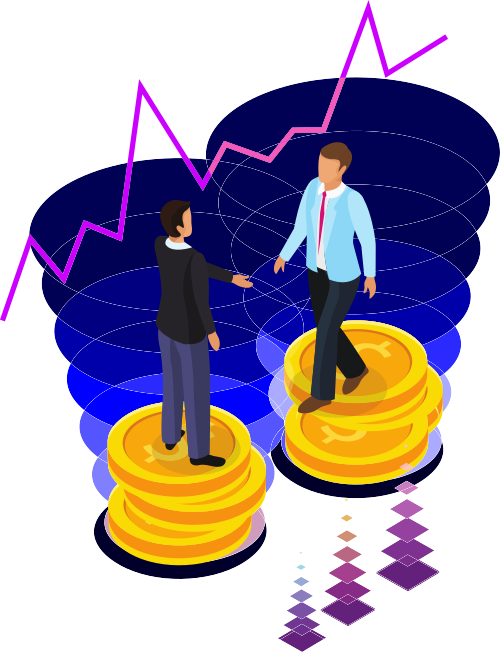
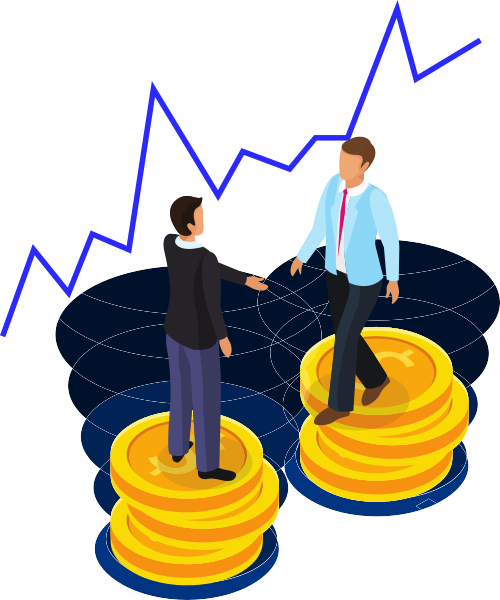
nuevas images de about

diff --git a/index.html b/index.html
@@ -334,7 +334,7 @@
               <div class="container">
                 <div class="row">
                   <!-- Image Pane -->
-                  <div class="col-md-4">
+                  <div class="col-md-6">
                     <img
                       class="img-fluid image-about"
                       src="images/g22.png"
@@ -343,7 +343,7 @@
                   </div>
                   <!-- end of image pane -->
                   <!-- Text And Icon Cards Area -->
-                  <div class="col-md-8">
+                  <div class="col-md-6">
                     <div class="card right-pane first">
                         <div class="card-body">
                             <div class="text-wrapper">
@@ -377,7 +377,7 @@
               <div class="container">
                 <div class="row">
                   <!-- Text And Icon Cards Area -->
-                  <div class="col-md-8">
+                  <div class="col-md-6">
                     <div class="card right-pane first">
                         <div class="card-body">
                             <div class="text-wrapper">
@@ -395,10 +395,10 @@
                   <!-- end of text and icon cards area -->
 
                   <!-- Image Pane -->
-                  <div class="col-md-4">
+                  <div class="col-md-6">
                     <img
-                      class="img-fluid "
-                      src="images/g59585.png"
+                      class="img-fluid image-about"
+                      src="images/g70249.png"
                       alt="alternative"
                     />
                   </div>
@@ -437,7 +437,7 @@
                   <div class="col-md-6">
                     <img
                       class="img-fluid image-about"
-                      src="images/Logo-Panda-Pips-Cuadrado.png"
+                      src="images/g73265.png"
                       alt="alternative"
                     />
                   </div>
